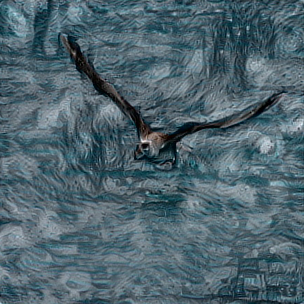
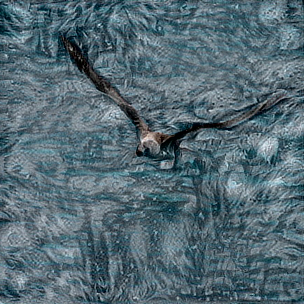
Fix generate-stylized-dataset to work with py 2.7
also fix config, temporarily changing datasets.py to look for
304images-stylized.pickle instead of 304images.pickle. it's a hack and
will be fixed in next commit when I generate the actual dataset and make
a new folder called birds-stylized in Data, and fix the config to refer
to this

diff --git a/generate-stylized-dataset.py b/generate-stylized-dataset.py
@@ -14,7 +14,8 @@ from PIL import Image
 #   --style ~/project/style-images/1-starry-night.jpg
 
 
-# output pickle file will be placed into the main project directory (call this script from there)
+# output pickle file will be placed into the same directory as the input pickle file, but
+#   with suffix "-stylized"
 
 # if you interrupt the script, delete the temporary file from neural-style
 
@@ -77,7 +78,7 @@ def main():
     input_filename = args.inputs.split(".")[0]
     output_filename = input_filename + "-stylized.pickle"
     with open(output_filename, 'wb') as f:
-        pickle.dump(image_list, f)  # no encoding option for this, so hopefully stackgan can read it
+        pickle.dump(image_list, f, protocol=2)  # protocol=2 is so it will work when it's read in python 2.7
 
     print("done: created " + output_filename)
 

diff --git a/StyleGAN/misc/datasets.py b/StyleGAN/misc/datasets.py
@@ -205,7 +205,7 @@ class TextDataset(object):
         if self.hr_lr_ratio == 1:
             self.image_filename = '/76images.pickle'
         elif self.hr_lr_ratio == 4:
-            self.image_filename = '/304images.pickle'
+            self.image_filename = '/304images-stylized.pickle' #############TODO: fix jank -stylized thing
 
         self.image_shape = [lr_imsize * self.hr_lr_ratio,
                             lr_imsize * self.hr_lr_ratio, 3]
